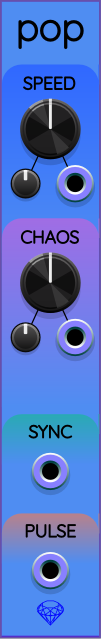
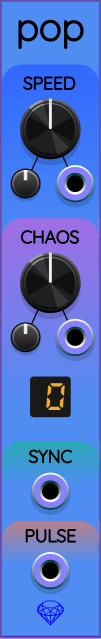
Pop: added output channel count display.

Changed region(s): [[0.0, 0.5649, 1.0, 0.8623]]

diff --git a/util/make_sapphire_svg.py b/util/make_sapphire_svg.py
@@ -1033,25 +1033,26 @@ def GeneratePopPanel(cdict:Dict[str,ControlLayer]) -> int:
     panel.append(pl)
     cdict[name] = controls = ControlLayer()
     xmid = panel.mmWidth / 2
-    syncDy = 20.0       # vertical distance between SYNC input port and TRIGGER output port
+    syncDy = 16.0       # vertical distance between SYNC input port and TRIGGER output port
     ySpeedKnob = 26.0
     yChaosKnob = 57.0
     dxControlGroup = 5.0
     dyControlGroup = 11.0
     dyControlText = -11.6
-    yOutLabel = 107.0
+    yOutLabel = 108.0
     ySyncLabel = yOutLabel - syncDy
     artSpaceAboveKnob = 13.0
     artSpaceBelowKnob = 25.0
     outputPortY1 = 88.0
     outputPortDY =  9.0
     yPortLabel = outputPortY1 - 2.4
-    outGradY1 = yOutLabel - 3.5
+    outGradY1 = yOutLabel - 3.0
     outGradY2 = yPortLabel + 2*outputPortDY + 10.0
     syncGradY1 = outGradY1 - syncDy
     syncGradY2 = syncGradY1 + (outGradY2 - outGradY1)
     yTriggerPort = outputPortY1 + 3*outputPortDY
     ySyncPort = yTriggerPort - syncDy
+    yChannelDisplay = 80.0
     with Font(SAPPHIRE_FONT_FILENAME) as font:
         pl.append(BorderRect(PANEL_WIDTH, SAPPHIRE_PANEL_COLOR, SAPPHIRE_BORDER_COLOR))
         pl.append(CenteredGemstone(panel))
@@ -1082,6 +1083,7 @@ def GeneratePopPanel(cdict:Dict[str,ControlLayer]) -> int:
         pl.append(ControlTextPath(font, 'CHAOS', xmid - 6.0, yChaosKnob + dyControlText))
         pl.append(CenteredControlTextPath(font, 'PULSE', xmid, yOutLabel, 'pulse_label'))
         pl.append(CenteredControlTextPath(font, 'SYNC', xmid, ySyncLabel, 'sync_label'))
+        controls.append(Component('channel_display', xmid, yChannelDisplay))
     return Save(panel, svgFileName)
 
 

diff --git a/src/sapphire_panel.cpp b/src/sapphire_panel.cpp
@@ -183,6 +183,7 @@ namespace Sapphire
             {"speed_knob",             {  15.640,   25.000}},
             }},
         { "pop", {
+            {"channel_display",        {  10.160,   80.000}},
             {"chaos_atten",            {   5.160,   68.000}},
             {"chaos_cv",               {  15.160,   68.000}},
             {"chaos_knob",             {  10.160,   57.000}},
@@ -190,7 +191,7 @@ namespace Sapphire
             {"speed_atten",            {   5.160,   37.000}},
             {"speed_cv",               {  15.160,   37.000}},
             {"speed_knob",             {  10.160,   26.000}},
-            {"sync_input",             {  10.160,   95.000}},
+            {"sync_input",             {  10.160,   99.000}},
             }},
         { "rotini", {
             {"a_input",                {  10.160,   22.000}},

diff --git a/src/pop_vcv.cpp b/src/pop_vcv.cpp
@@ -132,6 +132,7 @@ namespace Sapphire
                 }
 
                 const int nc = desiredChannelCount();
+                currentChannelCount = nc;       // keep channel display panel updated
                 outputs[PULSE_TRIGGER_OUTPUT].setChannels(nc);
                 float cvSpeed = 0;
                 float cvChaos = 0;
@@ -199,6 +200,8 @@ namespace Sapphire
                 addSapphireInput(SPEED_CV_INPUT, "speed_cv");
                 addSapphireInput(CHAOS_CV_INPUT, "chaos_cv");
                 addSapphireInput(SYNC_TRIGGER_INPUT, "sync_input");
+
+                addSapphireChannelDisplay("channel_display");
             }
 
             void appendContextMenu(Menu* menu) override

diff --git a/Pop.md b/Pop.md
@@ -40,6 +40,7 @@ to select a number of channels in the range 1..16. By default, Pop outputs
 a pulse trigger that has a single channel. By changing this slider setting,
 you can tell Pop to output up to 16 polyphonic channels from the PULSE port.
 This results in up to 16 independent pulse generators.
+The LED-style numeric display on the panel indicates the current number of output channels.
 
 ## SPEED control group
 
